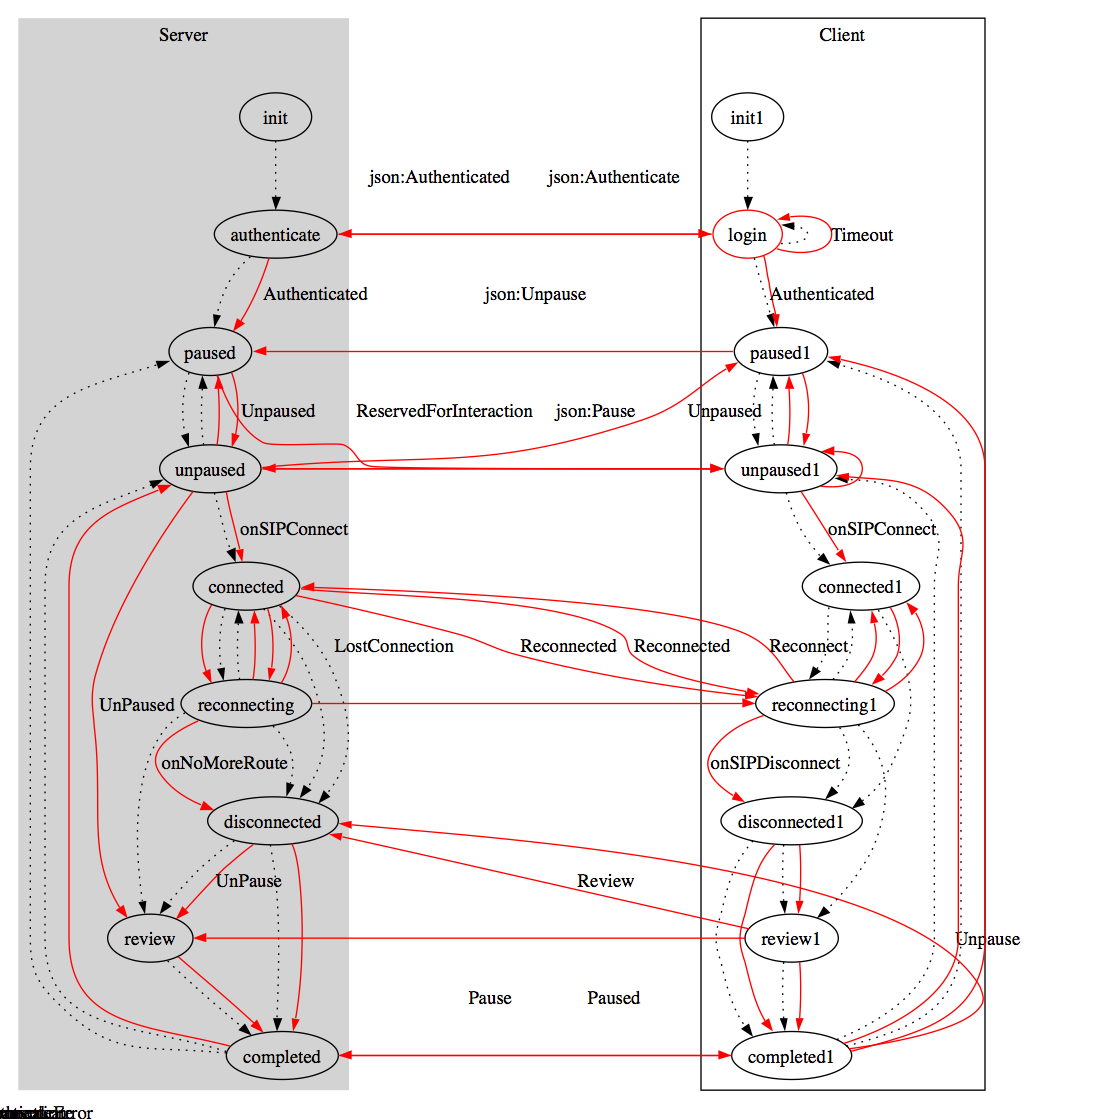
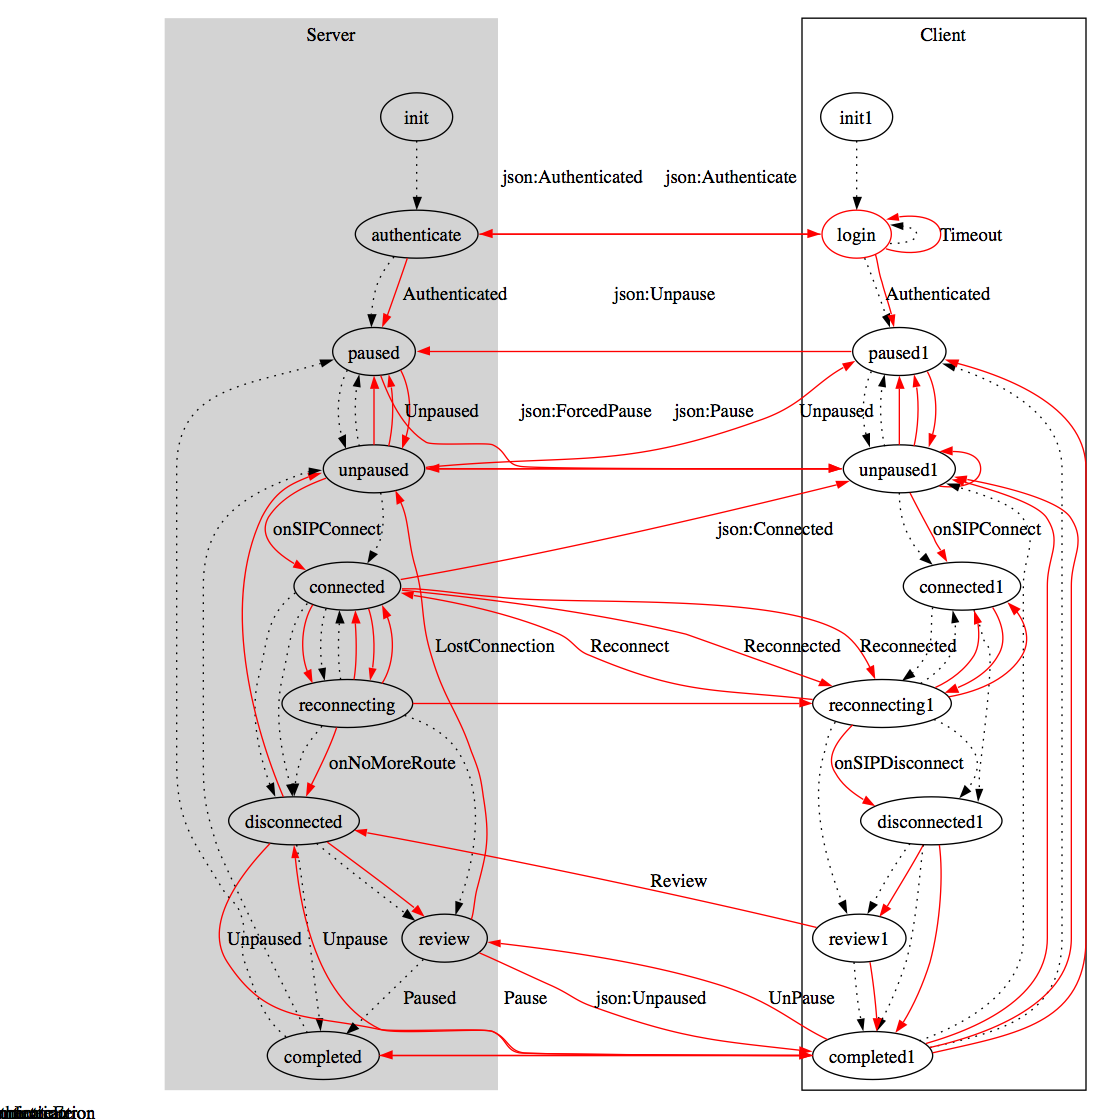
update statemachine
wrap up time should be implemented in client side.
add forcedpause flow

diff --git a/doc/index.html b/doc/index.html
@@ -1,0 +1,16 @@
+<html><body>
+<br>authenticate.flow.png<br><img src=authenticate.flow.png />
+<br>authenticate_error.flow.png<br><img src=authenticate_error.flow.png />
+<br>connect.flow.png<br><img src=connect.flow.png />
+<br>forced_pause.flow.png<br><img src=forced_pause.flow.png />
+<br>full.png<br><img src=full.png />
+<br>lost_connection.flow.png<br><img src=lost_connection.flow.png />
+<br>pause.flow.png<br><img src=pause.flow.png />
+<br>reconnect.flow.png<br><img src=reconnect.flow.png />
+<br>reconnecting.flow.png<br><img src=reconnecting.flow.png />
+<br>reserved.flow.png<br><img src=reserved.flow.png />
+<br>review.flow.png<br><img src=review.flow.png />
+<br>skipreview.flow.png<br><img src=skipreview.flow.png />
+<br>statemachine.png<br><img src=statemachine.png />
+<br>unpause.flow.png<br><img src=unpause.flow.png />
+</body></html>
